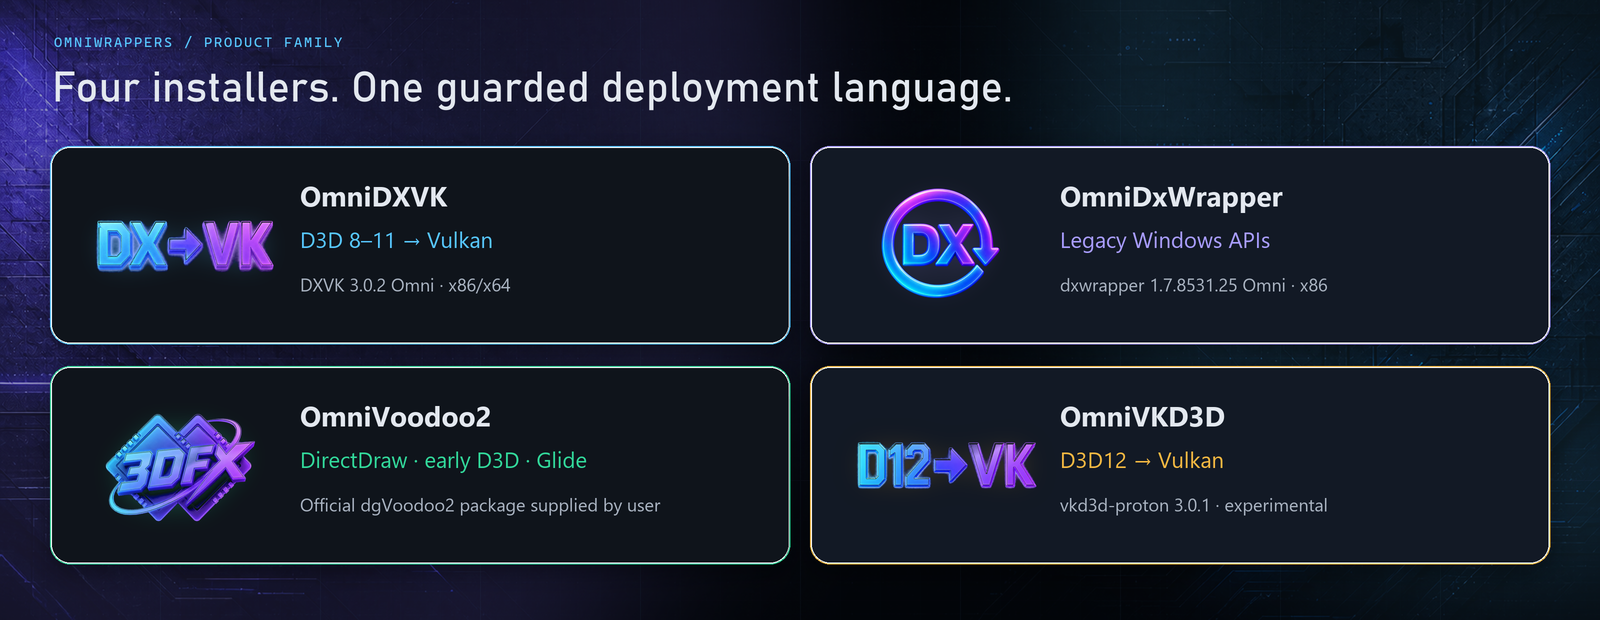
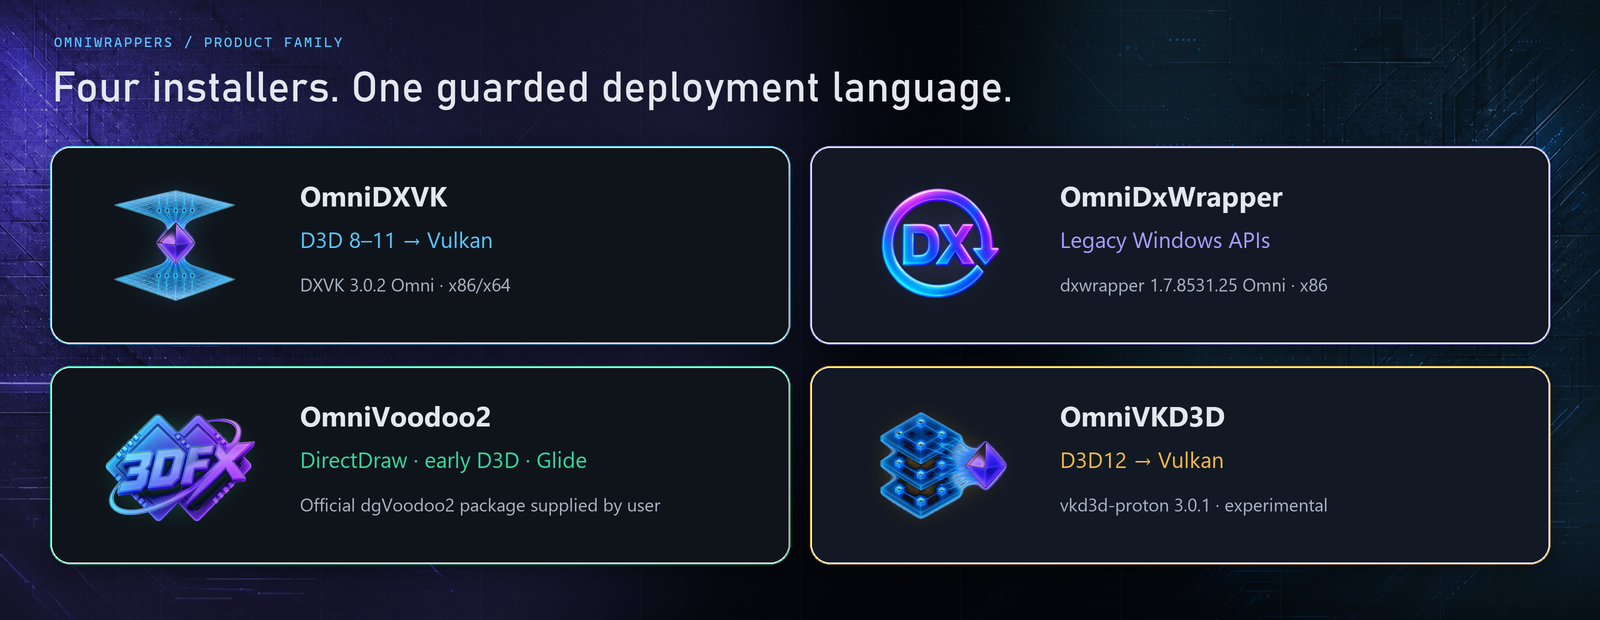
fix: refresh presentation symbols and step numbers

Changed region(s): [[0.0625, 0.3065, 0.1875, 0.4903], [0.5312, 0.6742, 0.6562, 0.8581]]

diff --git a/README.md b/README.md
@@ -44,7 +44,7 @@
 
 ## Consumer-first by design
 
-![OmniWrappers capability map covering architecture-aware planning, exact deployment, safe changes, and the consumer-first experience](assets/presentation/capabilities.png?v=20260823-presentation-alignment-v2)
+![OmniWrappers capability map covering architecture-aware planning, exact deployment, recoverable lifecycle management, and offline guidance](assets/presentation/capabilities.png?v=20260825-symbol-number-v4)
 
 - Automatic PE architecture inspection and graphics-import analysis.
 - Exact proxy-DLL mapping with required companion expansion.
@@ -67,7 +67,7 @@ commands are deliberately excluded from the consumer interface.
 
 ## The family at a glance
 
-![The four OmniWrappers installers and their intended Direct3D compatibility paths](assets/presentation/products.png?v=20260823-presentation-alignment-v2)
+![The four OmniWrappers installers and their intended Direct3D compatibility paths](assets/presentation/products.png?v=20260825-symbol-number-v4)
 
 | Product | Best fit | Current runtime basis |
 |---|---|---|
@@ -82,7 +82,7 @@ work. OmniVKD3D is explicitly experimental on native Windows.
 
 ## A safer three-step flow
 
-![OmniWrappers setup workflow from target selection through compatibility review to reversible deployment](assets/presentation/workflow.png?v=20260823-presentation-alignment-v2)
+![OmniWrappers setup workflow from target selection through compatibility review to reversible deployment](assets/presentation/workflow.png?v=20260825-symbol-number-v4)
 
 1. **Target** — select the real game executable, not its launcher or shortcut.
 2. **Compatibility** — review architecture, imported API, exact DLL names,
